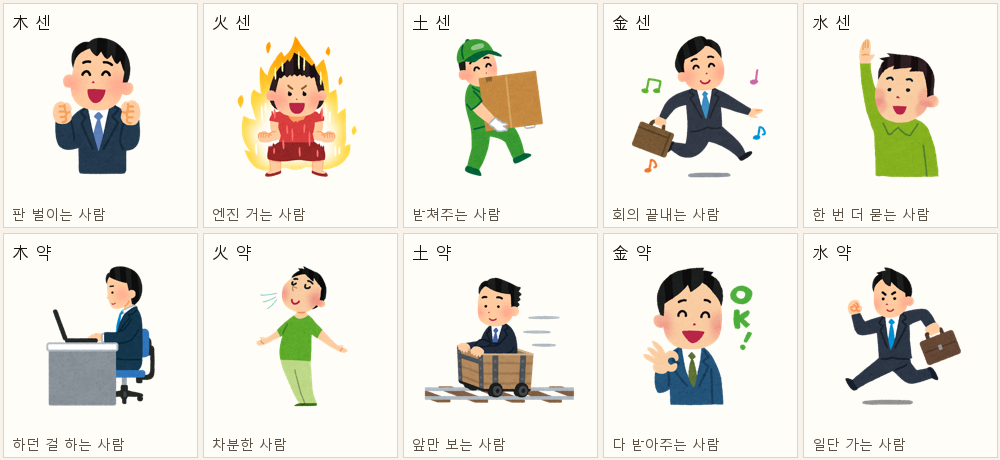
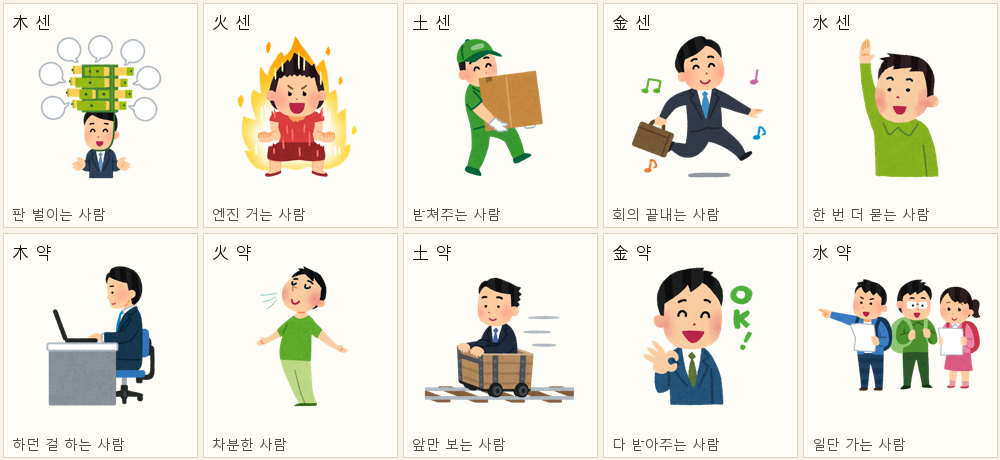
[DESIGN] 판 벌이는 사람과 일단 가는 사람을 교체한다 (#59)
- 木 센: 머리 위에 서랍이 잔뜩 열린 회사원. 원제가 話の引き出しが多い人 인데
  카피가 "있으면 소재가 안 마릅니다" 라 그림과 문장이 같은 말을 한다.
  꺼낼 게 많다는 걸 서랍과 말풍선으로 보여주고 표정도 의기양양하다
- 水 약: 팜플렛 들고 앞을 가리키는 여행자들. 재보는 것보다 움직이는 게
  빠른 쪽이다. 앞엣것은 가방 들고 뛰는 회사원이라 지각해서 뛰는 것처럼도
  보였다

Changed region(s): [[0.806, 0.5783, 0.992, 0.8826], [0.031, 0.0609, 0.155, 0.3957]]

diff --git a/src/lib/copy/result.ts b/src/lib/copy/result.ts
@@ -46,7 +46,7 @@ export const illustrationCopy = {
     火: '회의 중에 조는 사람',
     土: '손가락에 밀려 무너지는 도미노',
     金: '결재 서류가 산더미로 쌓인 책상',
-    水: '가방을 들고 달려 나가는 회사원',
+    水: '팜플렛을 들고 앞을 가리키는 여행자들',
   },
   altBalanced: '접시에 하나 남은 음식',
   /**
@@ -94,10 +94,10 @@ export const illustrationCopy = {
     火: '숨을 고르는 사람',
     土: '레일 위 광차를 타고 앞으로 가는 회사원',
     金: 'OK 사인을 내는 회사원',
-    水: '가방을 들고 달려 나가는 회사원',
+    水: '팜플렛을 들고 앞을 가리키는 여행자들',
   },
   altByStrong: {
-    木: '두 주먹을 쥐고 활짝 웃는 회사원',
+    木: '머리 위에 서랍이 잔뜩 열린 회사원',
     火: '의욕에 불타는 사람',
     土: '웃으며 짐을 나르는 사람',
     金: '가방을 들고 콧노래 부르며 걸어가는 사람',
